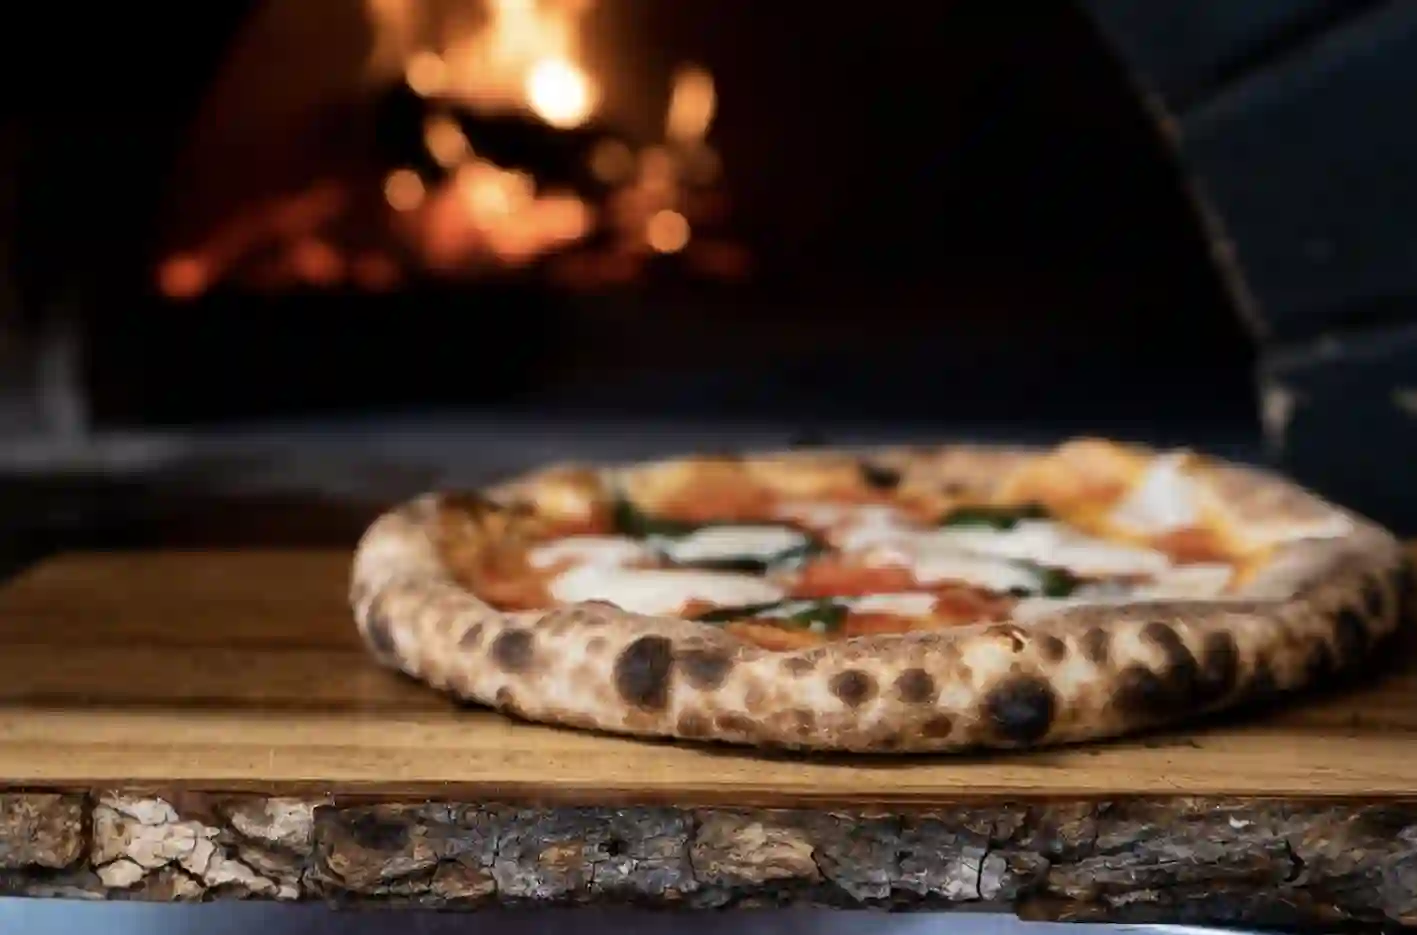
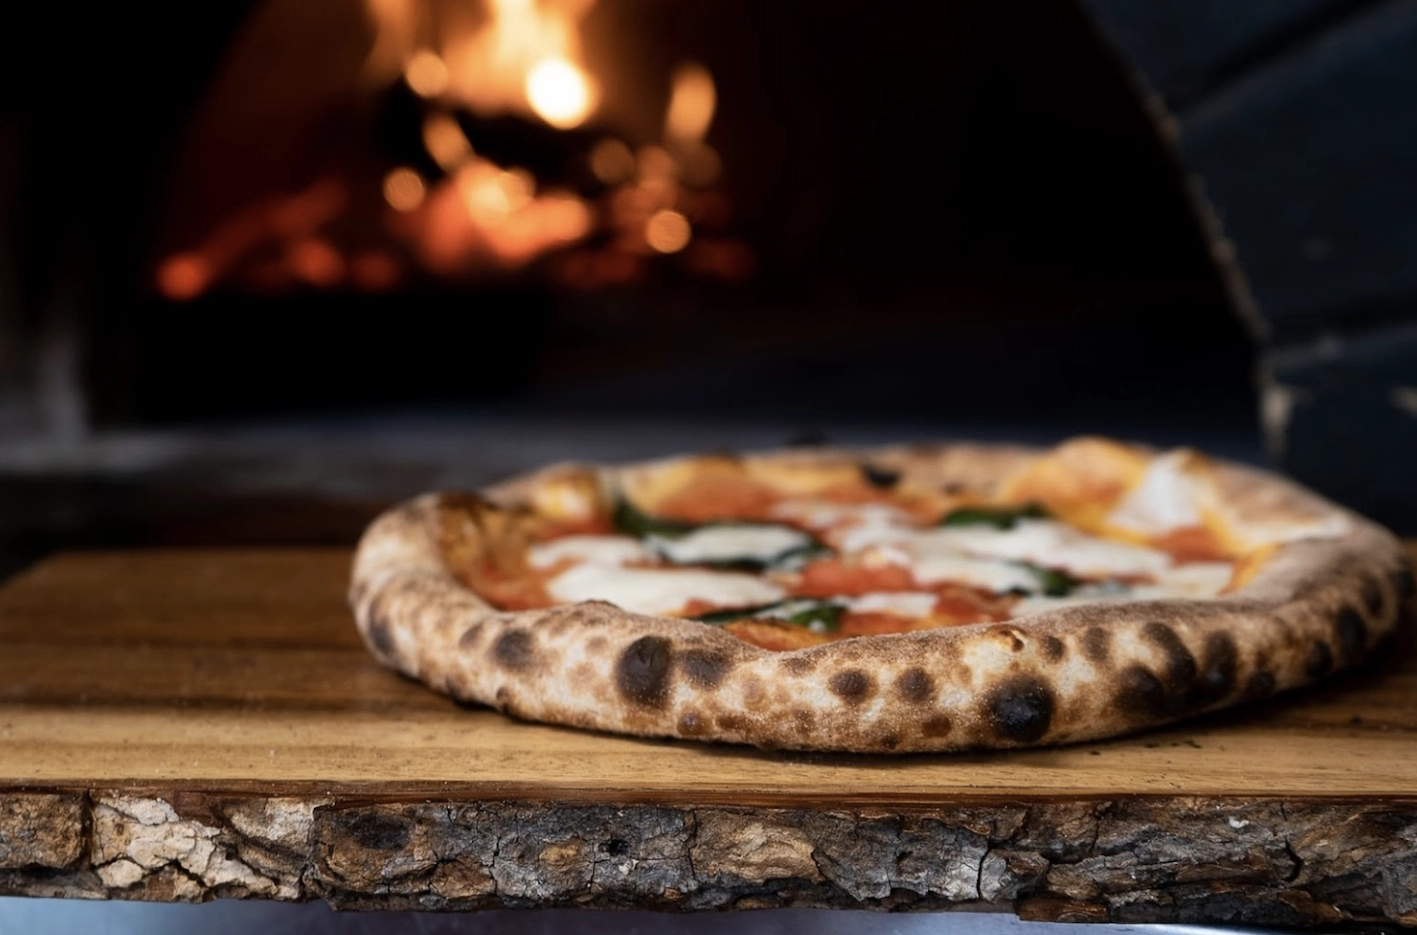
router

diff --git a/src/router/index.js b/src/router/index.js
@@ -2,13 +2,14 @@ import { createRouter, createWebHistory } from 'vue-router'
 import Home from '../views/Home.vue'
 
 
+
 const routes = [
   {
     path: '/',
     name: 'Home',
     component: Home,
     meta: {
-      title: 'Home Page Français - Pizza Vino',
+      title: 'Home Français - Pizza Vino, per chi ama la pizza, une excellente pizza',
       metaTags: [
         {
           name: 'description',
@@ -16,7 +17,7 @@ const routes = [
         },
         {
           property: 'og:description',
-          content: 'La pizzeria est située à Bruxelles précisément à Ixelles. Produits frais choisis quotidiennement et tradition typiquement italienne se rencontrent en un seul endroit : la pizza !.'
+          content: 'La pizzeria Pizza Vino est située à Bruxelles précisément à Ixelles. Produits frais choisis quotidiennement et tradition typiquement italienne se rencontrent en un seul endroit : la pizza !.'
         }
       ]
     }
@@ -26,15 +27,15 @@ const routes = [
     name: 'HomeEN',
     component: () => import(/* webpackChunkName: "about" */ '../views/HomeEN.vue'),
     meta: {
-      title: 'Home English - Pizza Vino',
+      title: 'Home English - Pizza Vino, per chi ama la pizza, une excellente pizza',
       metaTags: [
         {
           name: 'description',
-          content: 'Home page of the pizzeria pizza vino ixelles in english.'
+          content: 'Home page of the pizzeria pizza vino Ixelles in english.'
         },
         {
           property: 'og:description',
-          content: 'The pizzeria, is located in Brussels precisely in Ixelles. Daily chosen fresh products and the typical Italian tradition meet all in one place: the  pizza!.'
+          content: 'The pizzeria Pizza Vino , is located in Brussels precisely in Ixelles. Daily chosen fresh products and the typical Italian tradition meet all in one place: the pizza!.'
         }
       ]
     }
@@ -44,7 +45,7 @@ const routes = [
     name: 'HomeIT',
     component: () => import(/* webpackChunkName: "about" */ '../views/HomeIT.vue'),
     meta: {
-      title: 'Home Page Italiano - Pizza Vino',
+      title: 'Home Italiano - Pizza Vino, per chi ama la pizza, une excellente pizza',
       metaTags: [
         {
           name: 'description',
@@ -52,8 +53,7 @@ const routes = [
         },
         {
           property: 'og:description',
-          content: '\n' +
-              'La pizzeria, si trova a Bruxelles precisamente a Ixelles. Prodotti freschi scelti giornalmente e la tipica tradizione italiana si incontrano in un unico luogo: la pizza!.'
+          content: 'La pizzeria Pizza Vino , si trova a Bruxelles precisamente a Ixelles. Prodotti freschi scelti giornalmente e la tipica tradizione italiana si incontrano in un unico luogo: la pizza!.'
         }
       ]
     }
@@ -69,5 +69,49 @@ const router = createRouter({
   history: createWebHistory(process.env.BASE_URL),
   routes
 })
+
+// This callback runs before every route change, including on page load.
+router.beforeEach((to, from, next) => {
+  // This goes through the matched routes from last to first, finding the closest route with a title.
+  // e.g., if we have `/some/deep/nested/route` and `/some`, `/deep`, and `/nested` have titles,
+  // `/nested`'s will be chosen.
+  const nearestWithTitle = to.matched.slice().reverse().find(r => r.meta && r.meta.title);
+
+  // Find the nearest route element with meta tags.
+  const nearestWithMeta = to.matched.slice().reverse().find(r => r.meta && r.meta.metaTags);
+
+  const previousNearestWithMeta = from.matched.slice().reverse().find(r => r.meta && r.meta.metaTags);
+
+  // If a route with a title was found, set the document (page) title to that value.
+  if(nearestWithTitle) {
+    document.title = nearestWithTitle.meta.title;
+  } else if(previousNearestWithMeta) {
+    document.title = previousNearestWithMeta.meta.title;
+  }
+
+  // Remove any stale meta tags from the document using the key attribute we set below.
+  Array.from(document.querySelectorAll('[data-vue-router-controlled]')).map(el => el.parentNode.removeChild(el));
+
+  // Skip rendering meta tags if there are none.
+  if(!nearestWithMeta) return next();
+
+  // Turn the meta tag definitions into actual elements in the head.
+  nearestWithMeta.meta.metaTags.map(tagDef => {
+    const tag = document.createElement('meta');
+
+    Object.keys(tagDef).forEach(key => {
+      tag.setAttribute(key, tagDef[key]);
+    });
+
+    // We use this to track which meta tags we create so we don't interfere with other ones.
+    tag.setAttribute('data-vue-router-controlled', '');
+
+    return tag;
+  })
+      // Add the meta tags to the document head.
+      .forEach(tag => document.head.appendChild(tag));
+
+  next();
+});
 
 export default router

diff --git a/src/views/HomeEN.vue b/src/views/HomeEN.vue
@@ -2,7 +2,7 @@
 
   <!--  Header Section -->
 
-  <div class="pt-10 bg-gray-900 sm:pt-16 lg:pt-8 lg:pb-14 lg:overflow-hidden" style="background-image: url('img/pizza-outside.png'); background-size: cover;">
+  <div class="pt-10 bg-gray-900 sm:pt-16 lg:pt-8 lg:pb-14 lg:overflow-hidden" style="background-image: url('img/pizza-outside.webp'); background-size: cover;">
     <div class="py-10 max-w-7xl mx-auto px-4 sm:px-6 lg:px-8" id="space"></div>
     <div class="mx-auto  lg:px-8">
       <div class="lg:grid lg:grid-cols-2 lg:gap-8">
@@ -312,7 +312,7 @@ const categories = [
 const galleries = [
   {
     name: 'Mortadella',
-    imageSrc: 'img/uno.png',
+    imageSrc: 'img/uno.webp',
   },
   {
     name: 'Burrata',
@@ -320,11 +320,11 @@ const galleries = [
   },
   {
     name: 'Take away',
-    imageSrc: 'img/tre.png',
+    imageSrc: 'img/tre.webp',
   },
   {
     name: 'Michele',
-    imageSrc: 'img/quattro.png',
+    imageSrc: 'img/quattro.webp',
   },
   {
     name: 'Special',

diff --git a/src/views/HomeIT.vue b/src/views/HomeIT.vue
@@ -2,7 +2,7 @@
 
   <!--  Header Section -->
 
-  <div class="pt-10 bg-gray-900 sm:pt-16 lg:pt-8 lg:pb-14 lg:overflow-hidden" style="background-image: url('img/pizza-outside.png'); background-size: cover;">
+  <div class="pt-10 bg-gray-900 sm:pt-16 lg:pt-8 lg:pb-14 lg:overflow-hidden" style="background-image: url('img/pizza-outside.webp'); background-size: cover;">
     <div class="py-10 max-w-7xl mx-auto px-4 sm:px-6 lg:px-8" id="space"></div>
     <div class="mx-auto  lg:px-8">
       <div class="lg:grid lg:grid-cols-2 lg:gap-8">
@@ -310,7 +310,7 @@ const categories = [
 const galleries = [
   {
     name: 'Mortadella',
-    imageSrc: 'img/uno.png',
+    imageSrc: 'img/uno.webp',
   },
   {
     name: 'Burrata',
@@ -318,11 +318,11 @@ const galleries = [
   },
   {
     name: 'Asporto',
-    imageSrc: 'img/tre.png',
+    imageSrc: 'img/tre.webp',
   },
   {
     name: 'Michele',
-    imageSrc: 'img/quattro.png',
+    imageSrc: 'img/quattro.webp',
   },
   {
     name: 'Special',

diff --git a/src/views/Home.vue b/src/views/Home.vue
@@ -2,7 +2,7 @@
 
 <!--  Header Section -->
 
-  <div class="pt-10 bg-gray-900 sm:pt-16 lg:pt-8 lg:pb-14 lg:overflow-hidden" style="background-image: url('img/pizza-outside.png'); background-size: cover;">
+  <div class="pt-10 bg-gray-900 sm:pt-16 lg:pt-8 lg:pb-14 lg:overflow-hidden" style="background-image: url('img/pizza-outside.webp'); background-size: cover;">
     <div class="py-10 max-w-7xl mx-auto px-4 sm:px-6 lg:px-8" id="space"></div>
     <div class="mx-auto  lg:px-8">
       <div class="lg:grid lg:grid-cols-2 lg:gap-8">
@@ -315,7 +315,7 @@ const categories = [
 const galleries = [
   {
     name: 'Mortadella',
-    imageSrc: 'img/uno.png',
+    imageSrc: 'img/uno.webp',
   },
   {
     name: 'Burrata',
@@ -323,11 +323,11 @@ const galleries = [
   },
   {
     name: 'Emporter',
-    imageSrc: 'img/tre.png',
+    imageSrc: 'img/tre.webp',
   },
   {
     name: 'Michele',
-    imageSrc: 'img/quattro.png',
+    imageSrc: 'img/quattro.webp',
   },
   {
     name: 'Special',
